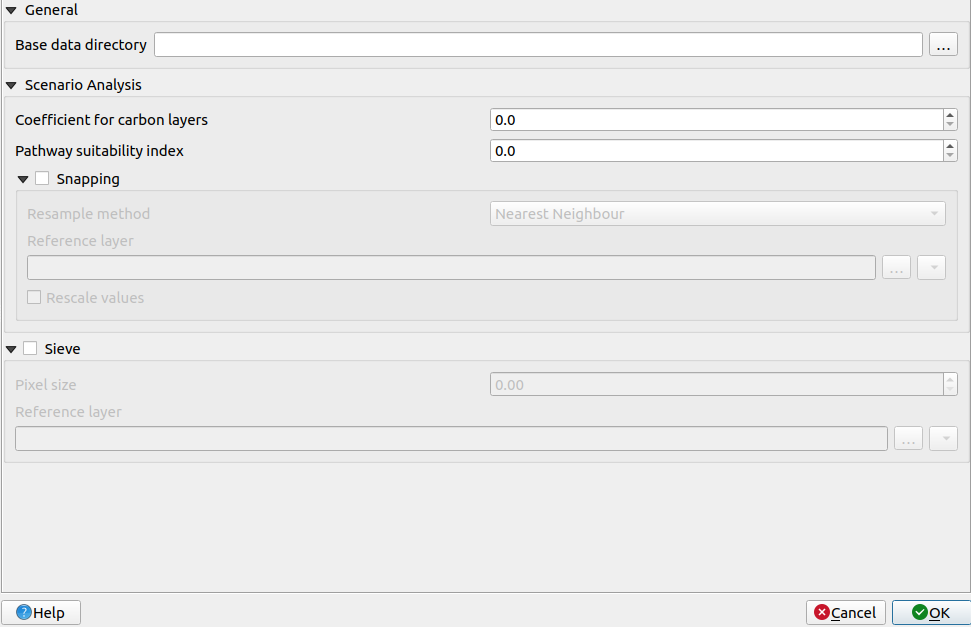
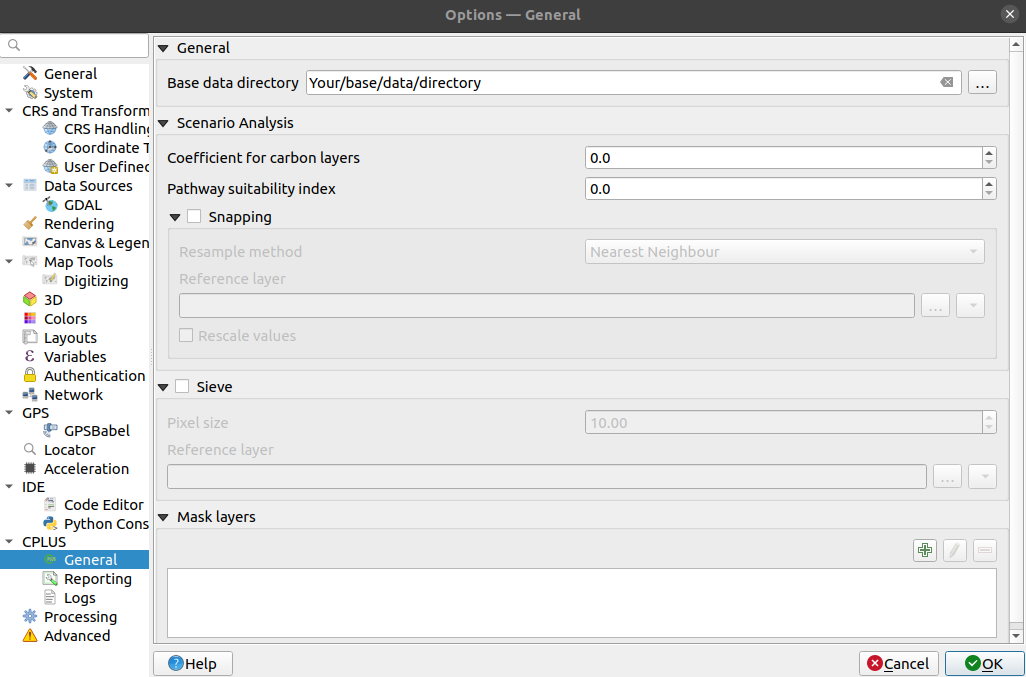
Add docs for mask feature

Changed region(s): [[0.0, 0.0, 1.0, 1.0], [0.1854, 0.4848, 0.2781, 0.5152], [0.896, 0.7879, 0.9269, 0.8485]]

diff --git a/docs/user/manual/settings.md b/docs/user/manual/settings.md
@@ -80,6 +80,36 @@ To go to the settings the user can click on the plugin toolbar icon to reveal th
     
     Click on `Cancel` will close the dialog without applying any changes.
 
+    ## Mask Layers
+
+    **Masking Layers:** Masking layers are used to specify areas that should be excluded from further analysis.
+
+    **Adding a Layer to the Mask:** When the user adds a layer to the mask, they specify that the areas covered by that layer should be excluded from the analysis or processing steps.
+
+    **Exclusion of Layer Area:** By adding a layer to the mask, the user is essentially creating a filter that excludes the areas represented by that layer.
+
+    **Impact on Analysis:** Any analysis or operations performed on the masked data will skip the areas covered by the added layer. This ensures that the analysis focuses only on the relevant geographic features while disregarding the specified layer.
+
+    **Relevance to GIS:** Masking layers play a crucial role in GIS analysis, allowing users to focus on specific areas of interest and filter out irrelevant or undesired features from consideration.
+
+    In summary, adding a layer to the mask in a context allows for the selective exclusion of specific geographic areas from analysis or visualisation, improving the accuracy and relevance of outputs.
+
+    1. **Arrow:** Click on the available `Arrow` button in front of the `Mask Layer` to see the options for adding or deleting the layers from the mask feature.
+
+        ![Mask layer](./img/setting-7.png)
+
+        Upon clicking the user will see the options.
+
+        ![Mask layer options](./img/setting-8.png)
+
+    2. **Plus Icon:** Click on the `Plus` icon, to add the layer to the mask layer from the system. Upon clicking the icon the system will show the available layer, and choose the desired layer to add to the mask layer.
+
+        ![Layers](./img/setting-9.png)
+
+    3. **Minus Icon:** Select the added layer and click on the `Minus` icon, to remove that layer.
+
+    4. **Ok:**  After adding the layer/layers to the mask layer, click on the `OK` button to save the layers in the mask layer and skip them from further analysis.
+
 3. **Reporting:** Click on the `Reporting` option for reports-related settings. Under the Reporting settings, users can configure the information to be included in the generated reports. These settings include:
 
 ![reporting settings](./img/setting-6.png)
